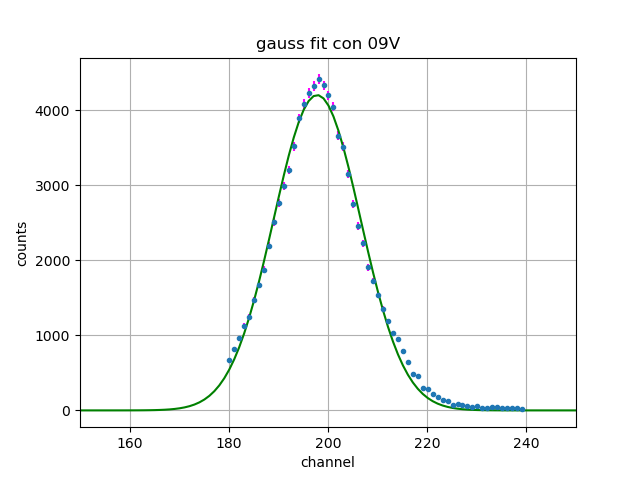
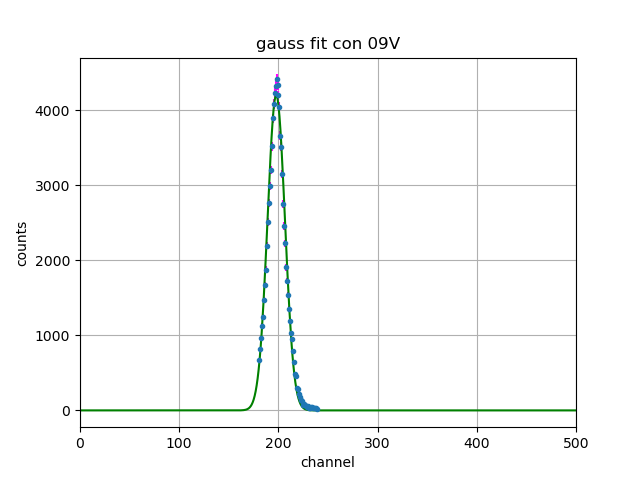
corrected code for siliconv2

diff --git a/SILICONDETECTORS/GRUPPO3FISMEDJLS/New_Full_programV2.py b/SILICONDETECTORS/GRUPPO3FISMEDJLS/New_Full_programV2.py
@@ -30,7 +30,7 @@ for f in filenames:
     plt.xlabel('chn')
     plt.title('Segnale test con %s'%f.replace('.txt',''))
     plt.ylabel('count')
-    #plt.xlim(0,250)
+    plt.xlim(0,250)
     plt.grid(True)
     plt.show()
     plt.close()
@@ -92,7 +92,7 @@ for f in filenames:
 
     pylab.xlabel('channel')
     pylab.ylabel('counts')
-    #pylab.xlim(150,250)
+    pylab.xlim(0,500)
 
     pylab.title('gauss fit con %s'%f.replace('.txt',''))
     pylab.plot(x1,gaus(x1,*popt), color='green', label="fit")
@@ -179,7 +179,7 @@ pylab.errorbar( x, data, ds , fmt= '.', ecolor= 'magenta')
 
 pylab.xlabel('channel')
 pylab.ylabel('counts')
-    #pylab.xlim(150,250)
+pylab.xlim(0,500)
 
 pylab.title('gauss fit con %s'%f.replace('.txt',''))
 pylab.plot(x1,gaus(x1,*popt), color='green', label="fit")
@@ -202,7 +202,7 @@ print(fwhm)
 print('le risoluzioni energetiche  sono:')
 print(resolution)
 
-##
+##CALIBRAZIONE MILLIVOT VERSUS CANALE
 #chn=np.array([85.58,176.57,305.20,342.69])
 #fwhm=np.array([1.69,1.69,1.66,1.73])
 
@@ -393,7 +393,7 @@ for f in filenames:
     plt.xlabel('chn')
     plt.title('Segnale test con %s'%f.replace('.txt',''))
     plt.ylabel('count')
-    #plt.xlim(0,250)
+    plt.xlim(0,500)
     plt.grid(True)
     plt.show()
     plt.close()
@@ -455,7 +455,7 @@ for f in filenames:
 
     pylab.xlabel('channel')
     pylab.ylabel('counts')
-    #pylab.xlim(150,250)
+    pylab.xlim(0,500)
 
     pylab.title('gauss fit con %s'%f.replace('.txt',''))
     pylab.plot(x1,gaus(x1,*popt), color='green', label="fit")
@@ -612,7 +612,7 @@ pylab.errorbar( x, data, ds , fmt= '.', ecolor= 'magenta')
 
 pylab.xlabel('channel')
 pylab.ylabel('counts')
-    #pylab.xlim(150,250)
+pylab.xlim(0,500)
 
 pylab.title('gauss fit con %s'%f.replace('.txt',''))
 pylab.plot(x1,gaus(x1,*popt), color='green', label="fit")
@@ -720,7 +720,7 @@ for f in filenames:
 
     pylab.xlabel('channel')
     pylab.ylabel('counts')
-    pylab.xlim(150,250)
+    pylab.xlim(0,500)
 
     pylab.title('gauss fit con %s'%f.replace('.txt',''))
     pylab.plot(x1,gaus(x1,*popt), color='green', label="fit")
